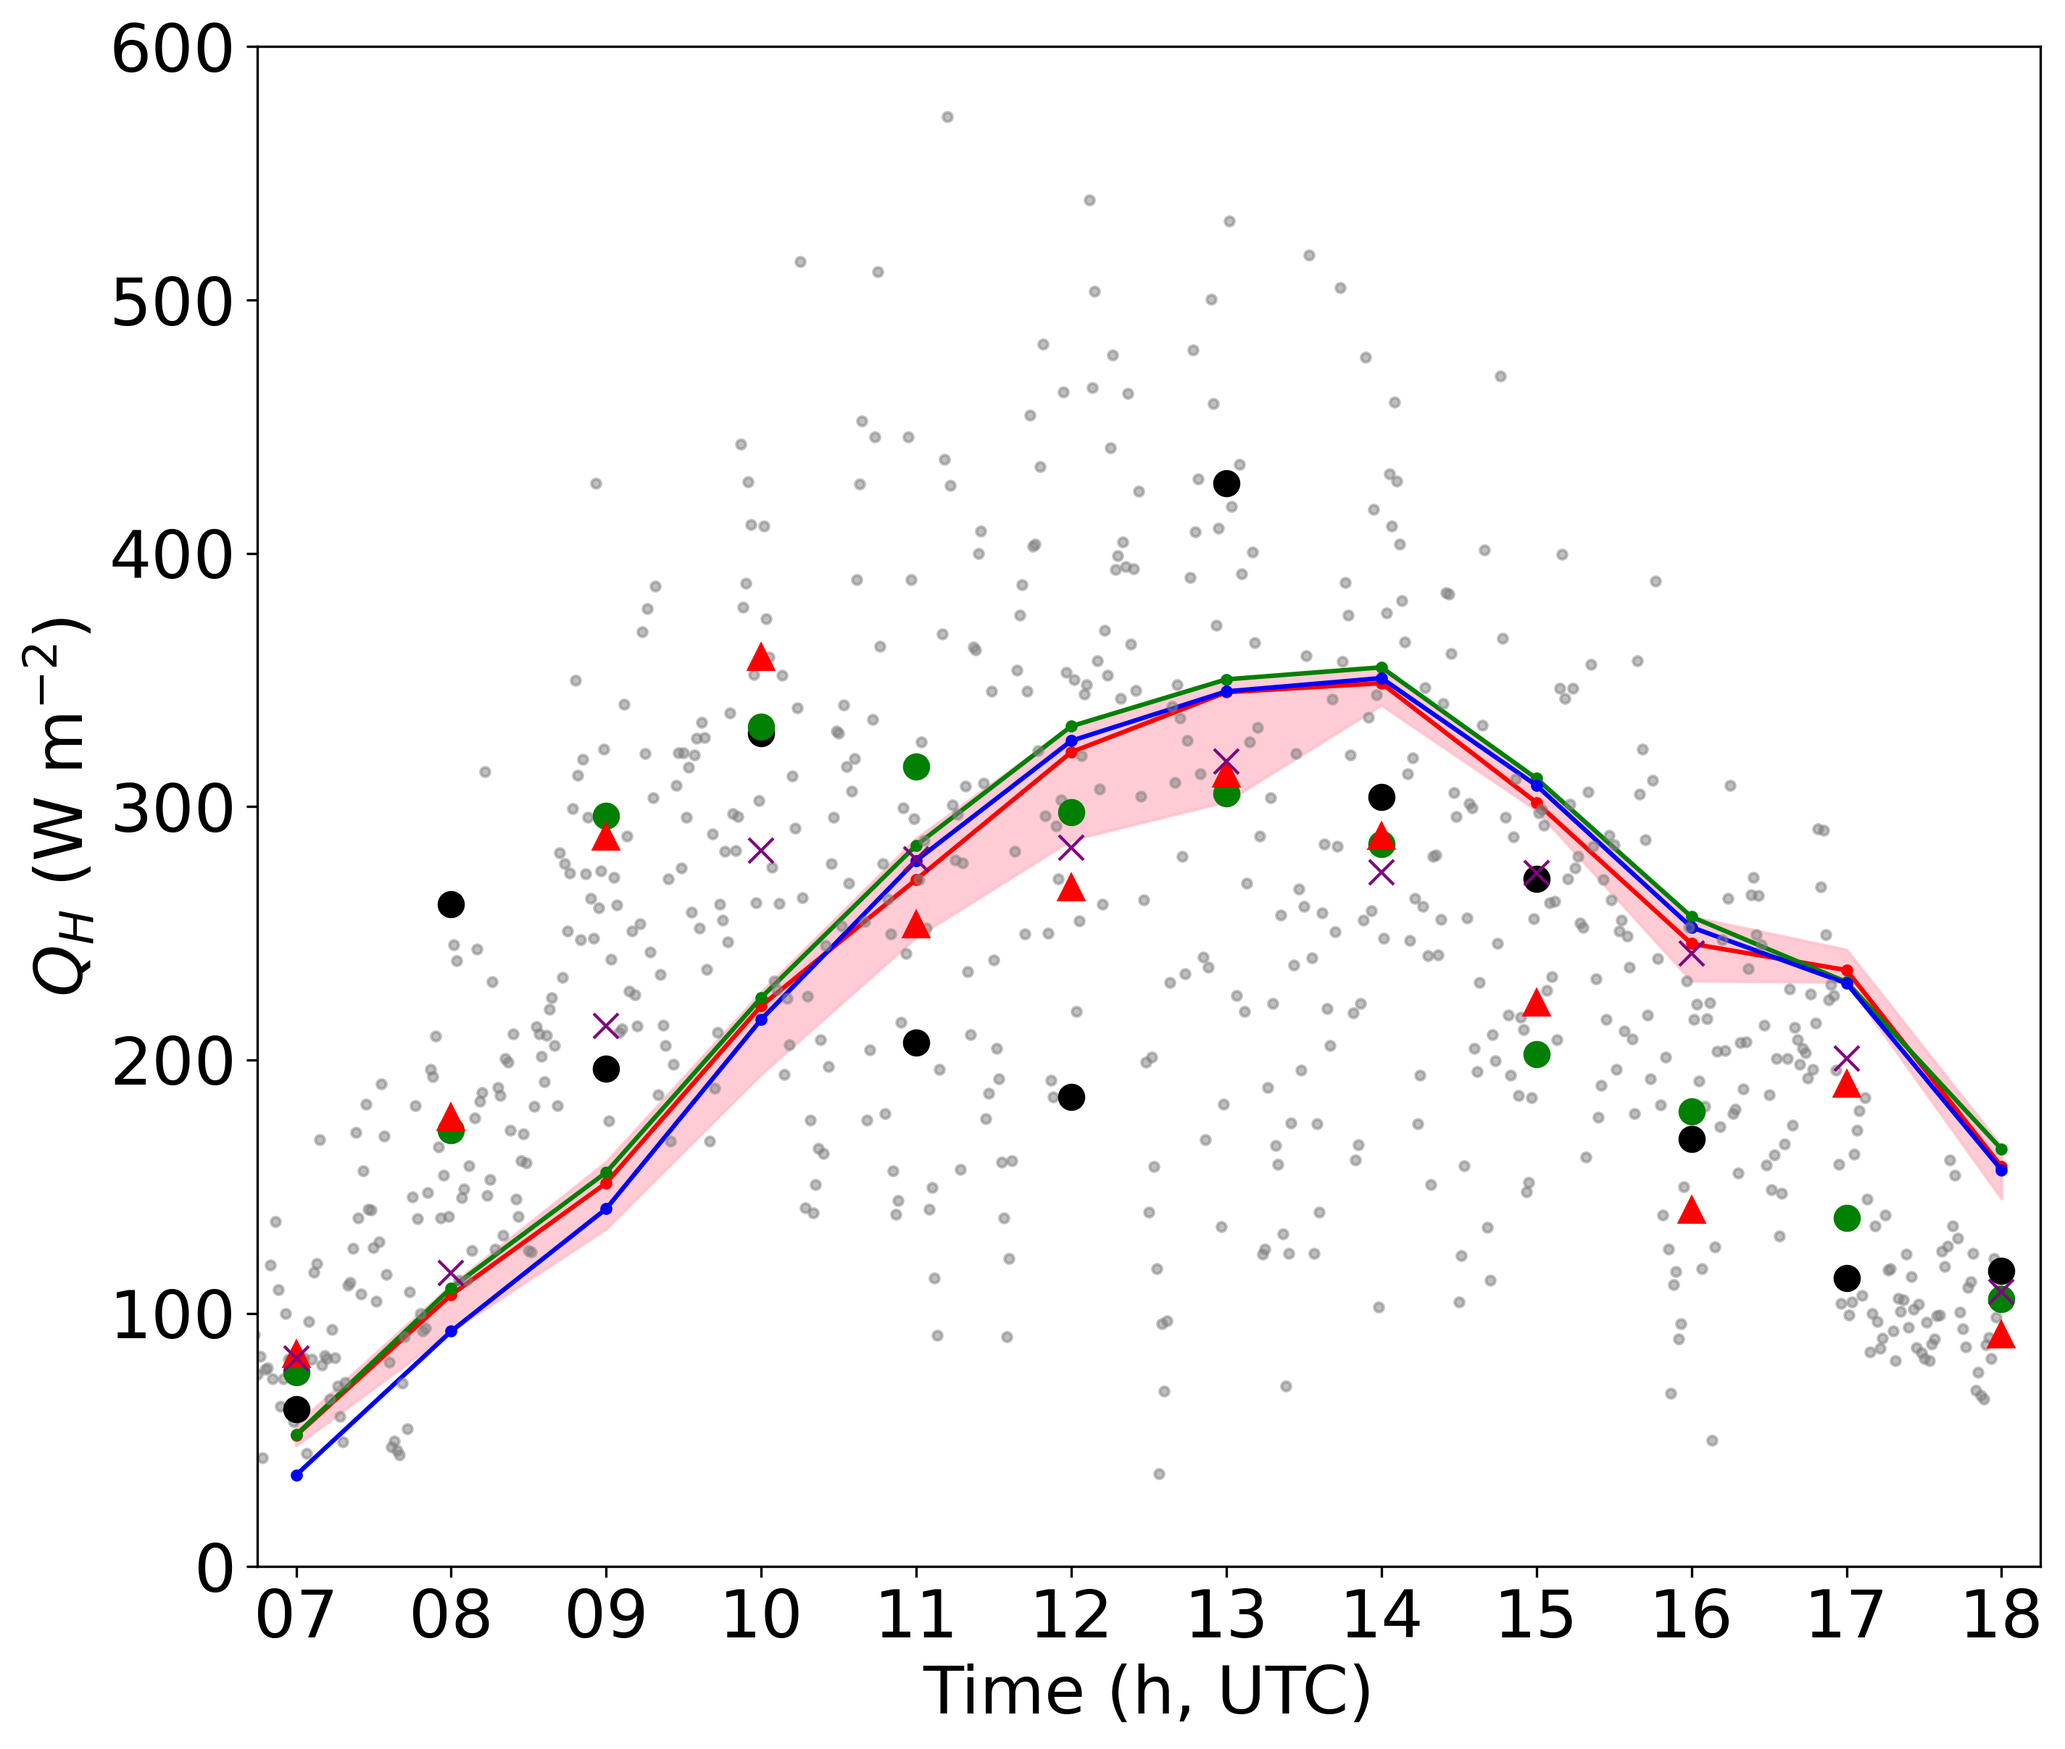
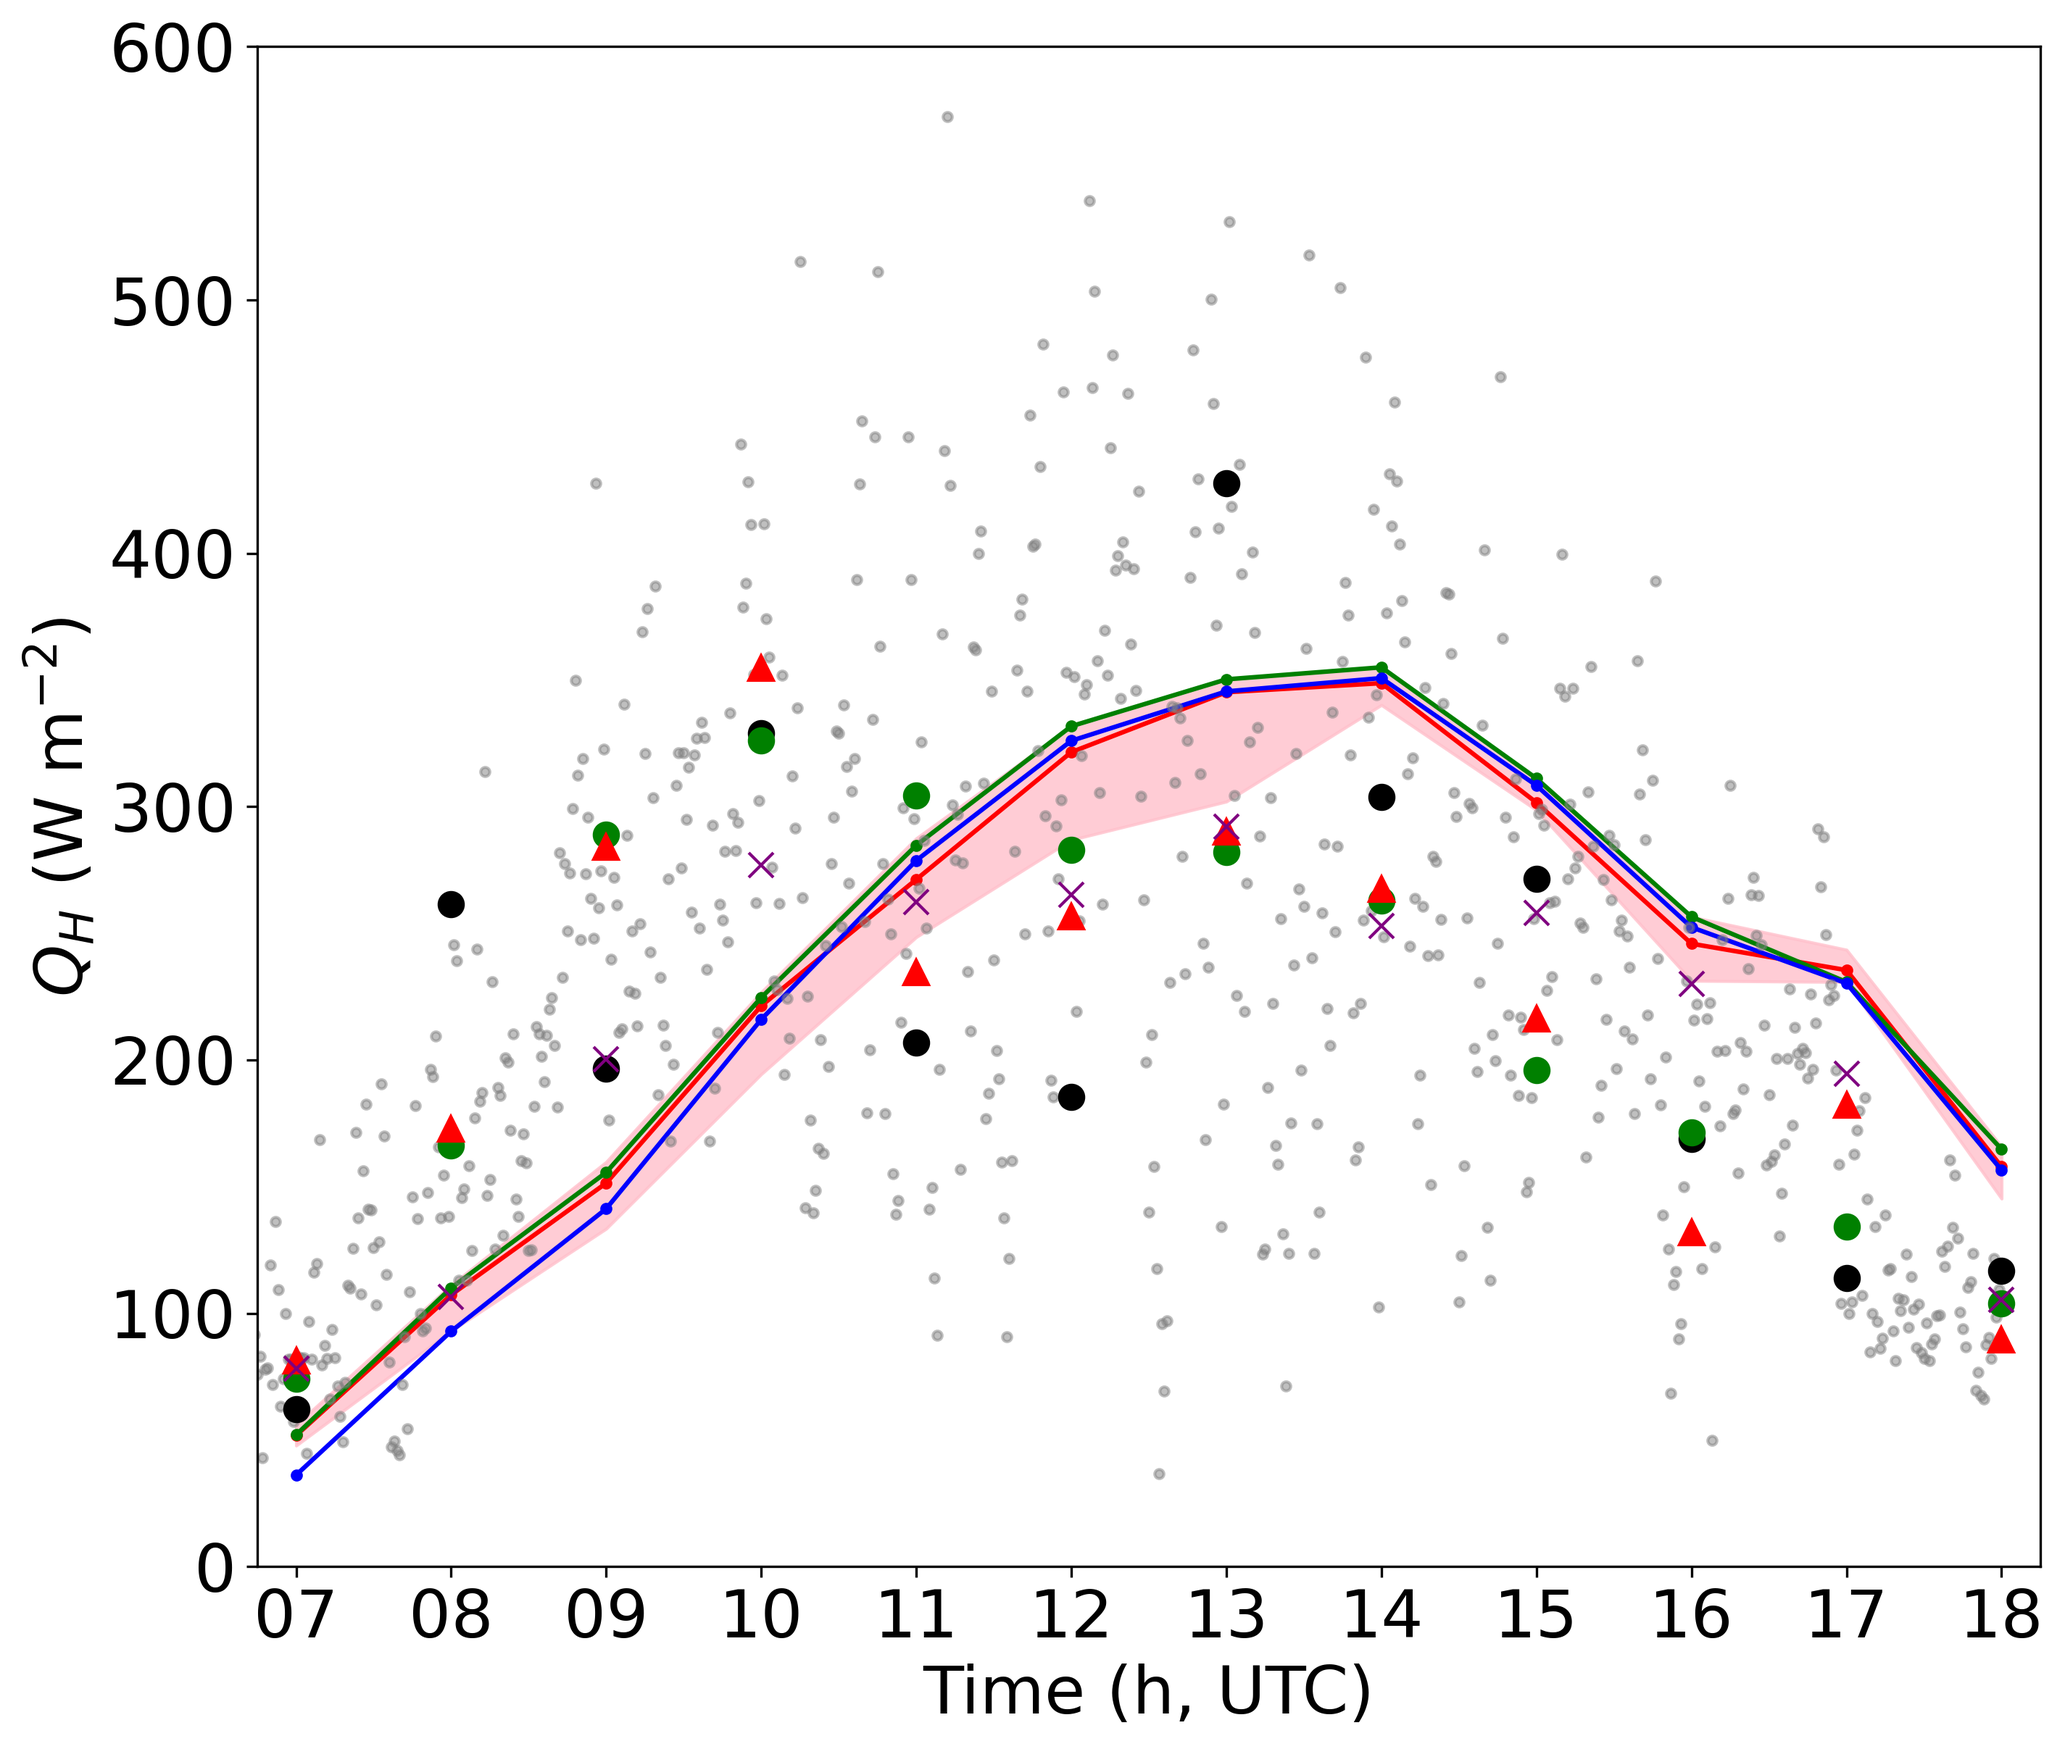
Rerun with new obs

diff --git a/scint_plots/detailed_time_series/detailed_time_series_funs.py b/scint_plots/detailed_time_series/detailed_time_series_funs.py
@@ -72,10 +72,8 @@ def detailed_time_series(obs_df,
     ukv_df = ukv_df.dropna()
 
     if variable == 'H':
-        df_col = 'QH'
         label_string = '$Q_{H}$ (W m$^{-2})$'
     elif variable == 'kdown':
-        df_col = 'kdown'
         label_string = '$K_{\downarrow}$ (W m$^{-2}$)'
     else:
         raise ValueError('variable chosen not an option')
@@ -96,32 +94,33 @@ def detailed_time_series(obs_df,
 
     ax1 = fig.add_subplot(spec[0])
 
-    obs_df = obs_df.dropna()
+    # obs_df = obs_df.dropna()
 
     if variable == 'H':
-        five_min = obs_df.resample('5T', closed='right', label='right').mean()
-        ten_min = obs_df.resample('10T', closed='right', label='right').mean()
-        sixty_min = obs_df.resample('60T', closed='right', label='right').mean()
+        # five_min = obs_df.resample('5T', closed='right', label='right').mean()
+        # ten_min = obs_df.resample('10T', closed='right', label='right').mean()
+        # sixty_min = obs_df.resample('60T', closed='right', label='right').mean()
 
         minute_match = 0
 
     else:
 
-        # as-is
-        # '''
-        five_min = obs_df.resample('5T', closed='right', label='right').mean()
-        ten_min = obs_df.resample('10T', closed='right', label='right').mean()
-        sixty_min = obs_df.resample('60T', closed='right', label='right').mean()
-    
-        # if variable == 'kdown':
-        #     sixty_min.index = sixty_min.index - dt.timedelta(minutes=45)
-        #     ten_min.index = ten_min.index + dt.timedelta(minutes=5)
+        # # as-is
+        # # '''
+        # five_min = obs_df.resample('5T', closed='right', label='right').mean()
+        # ten_min = obs_df.resample('10T', closed='right', label='right').mean()
+        # sixty_min = obs_df.resample('60T', closed='right', label='right').mean()
         #
-        #     minute_match = 15
-        # else:
-        #     minute_match = 0
-    
+        # # if variable == 'kdown':
+        # #     sixty_min.index = sixty_min.index - dt.timedelta(minutes=45)
+        # #     ten_min.index = ten_min.index + dt.timedelta(minutes=5)
+        # #
+        # #     minute_match = 15
+        # # else:
+        # #     minute_match = 0
+
         minute_match = 0
+
         # '''
         # OR
         # shifted averages
@@ -134,15 +133,15 @@ def detailed_time_series(obs_df,
 
         '''
 
+    hour_1min = obs_df['obs_1'][np.where([i.minute == minute_match for i in obs_df.index])[0]]
+    hour_5min = obs_df['obs_5'][np.where([i.minute == minute_match for i in obs_df.index])[0]]
+    hour_10min = obs_df['obs_10'][np.where([i.minute == minute_match for i in obs_df.index])[0]]
+    hour_60min = obs_df['obs_60'][np.where([i.minute == minute_match for i in obs_df.index])[0]]
 
-
-    hour_1min = obs_df[df_col][np.where([i.minute == minute_match for i in obs_df.index])[0]]
-    hour_5min = five_min[df_col][np.where([i.minute == minute_match for i in five_min.index])[0]]
-    hour_10min = ten_min[df_col][np.where([i.minute == minute_match for i in ten_min.index])[0]]
-    hour_60min = sixty_min[df_col][np.where([i.minute == minute_match for i in sixty_min.index])[0]]
-
-
-    obs_N = len(obs_df)
+    # hour_1min = obs_df[df_col][np.where([i.minute == minute_match for i in obs_df.index])[0]]
+    # hour_5min = five_min[df_col][np.where([i.minute == minute_match for i in five_min.index])[0]]
+    # hour_10min = ten_min[df_col][np.where([i.minute == minute_match for i in ten_min.index])[0]]
+    # hour_60min = sixty_min[df_col][np.where([i.minute == minute_match for i in sixty_min.index])[0]]
 
     # if variable == 'kdown':
     #     if type(ukv_df_all_grids) == pd.core.frame.DataFrame:
@@ -183,7 +182,7 @@ def detailed_time_series(obs_df,
     except KeyError:
         pass
 
-    obs_all = ax1.plot(obs_df.index, obs_df[df_col], linestyle='None', marker='.', color='grey', alpha=0.5,
+    obs_all = ax1.plot(obs_df.index, obs_df['obs_1'], linestyle='None', marker='.', color='grey', alpha=0.5,
              label="1 min obs")
 
     obs_1 = ax1.plot(hour_1min.index, hour_1min.values, linestyle='None', marker='o', color='k', markersize=8,

diff --git a/scint_plots/detailed_time_series/main_H_detailed_time_series.py b/scint_plots/detailed_time_series/main_H_detailed_time_series.py
@@ -3,6 +3,8 @@ import numpy as np
 from scint_flux.functions import read_calculated_fluxes
 from scint_flux import look_up
 
+from scint_plots.tools import combine_obs_averages
+
 from model_eval_tools.retrieve_UKV import retrieve_ukv_vars
 
 from scint_plots.tools.preprocessed_UKV_csvs import UKV_lookup
@@ -19,10 +21,33 @@ DOY_dict = {}
 
 for DOY in DOY_list:
     # read the observations
-    df = read_calculated_fluxes.extract_data(doy_list=[DOY],
-                                             pair_id=pair_id,
-                                             var_list=var_list,
-                                             time_res=time_res)
+    # 1 min
+    df_1 = read_calculated_fluxes.extract_data(doy_list=[DOY],
+                                               pair_id=pair_id,
+                                               var_list=var_list,
+                                               time_res=time_res + '_PERIOD_VAR_' + str(1))
+
+    # 5 min
+    df_5 = read_calculated_fluxes.extract_data(doy_list=[DOY],
+                                               pair_id=pair_id,
+                                               var_list=var_list,
+                                               time_res=time_res + '_PERIOD_VAR_' + str(5))
+
+    # 10 min
+    df_10 = read_calculated_fluxes.extract_data(doy_list=[DOY],
+                                                pair_id=pair_id,
+                                                var_list=var_list,
+                                                time_res=time_res + '_PERIOD_VAR_' + str(10))
+
+    # 60 min
+    df_60 = read_calculated_fluxes.extract_data(doy_list=[DOY],
+                                                pair_id=pair_id,
+                                                var_list=var_list,
+                                                time_res='1min' + '_PERIOD_VAR_' + str(60))
+
+    df = combine_obs_averages.combine([df_1, df_5, df_10, df_60], on_hour=False)
+
+
 
     DOY_dict[DOY] = {time_res: df}
 
@@ -33,7 +58,7 @@ for DOY in DOY_list:
                    'run_time': '21Z',
                    'scint_path': scint_path,
                    'grid_number': UKV_lookup.scint_UKV_grid_choices[pair_id][1],  # this is only used if sa_analysis is set to False
-                   'target_height': df.z_f.mean()}
+                   'target_height': df_1.z_f.mean()}
 
     ukv_data_dict_QH = retrieve_ukv_vars.retrieve_UKV(run_choices=run_details, DOYstart=DOY, DOYstop=DOY)
     UKV_df_QH = retrieve_ukv_vars.UKV_df(ukv_data_dict_QH)

diff --git a/scint_plots/detailed_time_series/main_kdown_detailed_time_series.py b/scint_plots/detailed_time_series/main_kdown_detailed_time_series.py
@@ -1,6 +1,8 @@
 from scint_flux.functions import read_calculated_fluxes
 from scint_flux import look_up
 
+from scint_plots.tools import combine_obs_averages
+
 from model_eval_tools.retrieve_UKV import retrieve_ukv_vars
 
 from scint_plots.tools.preprocessed_UKV_csvs import UKV_lookup
@@ -19,10 +21,33 @@ DOY_dict = {}
 
 for DOY in DOY_list:
     # read the observations
-    df = read_calculated_fluxes.extract_data(doy_list=[DOY],
-                                             pair_id=pair_id,
-                                             var_list=var_list,
-                                             time_res=time_res)
+    # 1 min
+    df_1 = read_calculated_fluxes.extract_data(doy_list=[DOY],
+                                               pair_id=pair_id,
+                                               var_list=var_list,
+                                               time_res=time_res + '_PERIOD_VAR_' + str(1))
+
+    # 5 min
+    df_5 = read_calculated_fluxes.extract_data(doy_list=[DOY],
+                                               pair_id=pair_id,
+                                               var_list=var_list,
+                                               time_res=time_res + '_PERIOD_VAR_' + str(5))
+
+    # 10 min
+    df_10 = read_calculated_fluxes.extract_data(doy_list=[DOY],
+                                                pair_id=pair_id,
+                                                var_list=var_list,
+                                                time_res=time_res + '_PERIOD_VAR_' + str(10))
+
+    # 60 min
+    df_60 = read_calculated_fluxes.extract_data(doy_list=[DOY],
+                                                pair_id=pair_id,
+                                                var_list=var_list,
+                                                time_res='1min' + '_PERIOD_VAR_' + str(60))
+
+    df = combine_obs_averages.combine([df_1, df_5, df_10, df_60], on_hour=False)
+
+
 
     DOY_dict[DOY] = {time_res: df}
 

diff --git a/scint_plots/tools/combine_obs_averages.py b/scint_plots/tools/combine_obs_averages.py
@@ -18,6 +18,6 @@ def combine(df_list, on_hour=True):
 
         new_df_list.append(df_QH)
 
-    combine_df = pd.concat(new_df_list, axis=1).dropna()
+    combine_df = pd.concat(new_df_list, axis=1)
 
     return combine_df
